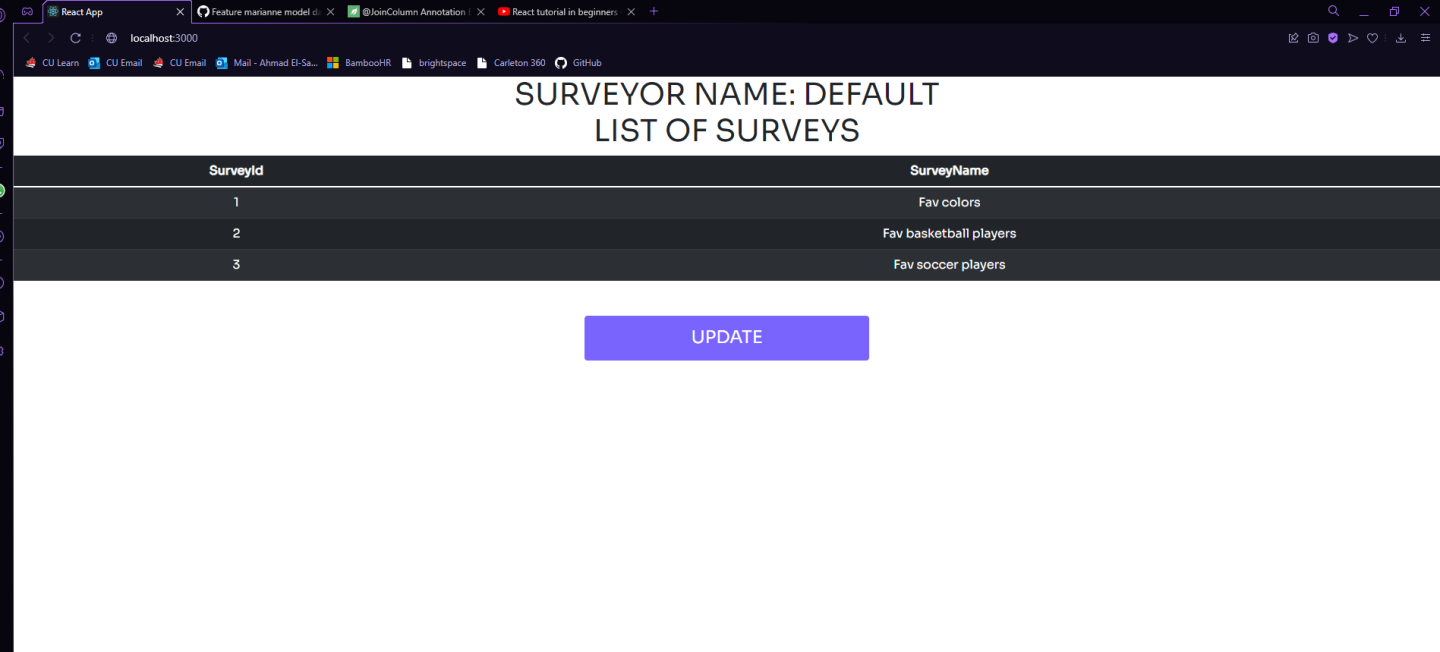
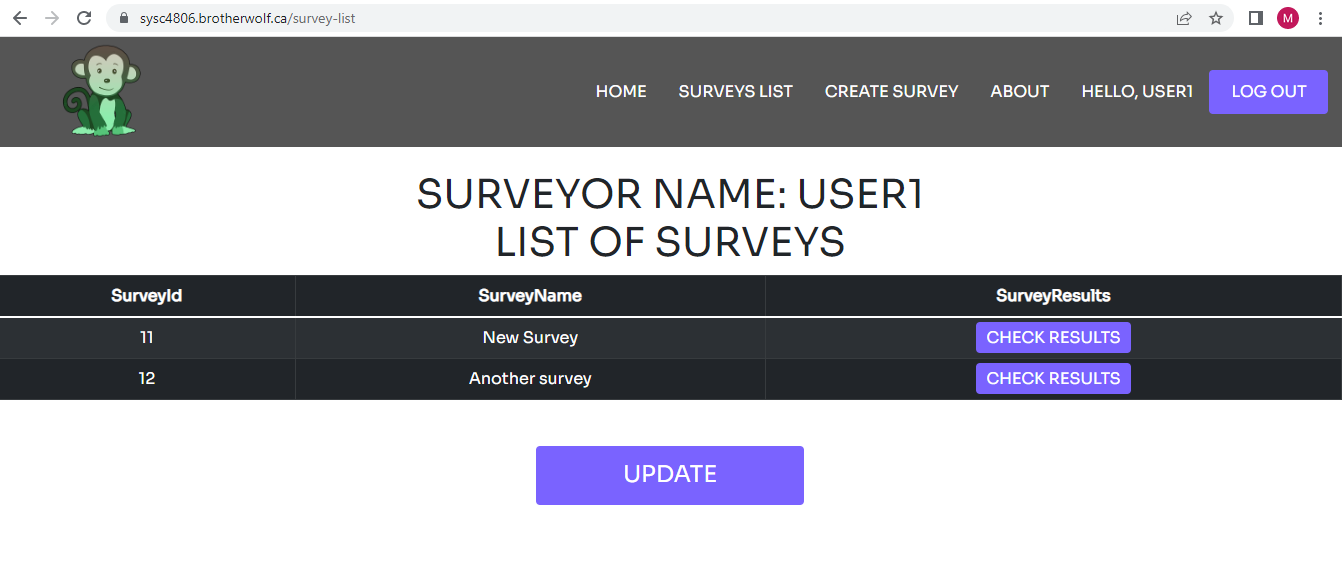
Updated screenshots:

diff --git a/README.md b/README.md
@@ -40,25 +40,25 @@ This is the use case that allows a surveyor to log in to the application and man
 
 ### Use Case 2: Display list of surveys
 
-Take the list of surveys that were created by a specific surveyor and to display it. The survey names and IDs are stored in the database (back-end) and we format this data into an HTML table before displaying it.
+Take the list of surveys that were created by a specific surveyor and to display it. The survey names and IDs are stored in the database (back-end) and we format this data into an HTML table before displaying it. We can click the "CHECK RESULTS" button to get to use case 5.
 
 ![ListOfSurveys](/docs/ListOfSurveys.png)
 
 ### Use Case 3: Create a survey
 
-In this use case, the user can create a new survey and save it to the database. The user needs to specify the name of the survey and the list of questions. Once the survey was successfully created, we provide the surveyor with a link to the survey. This link can be shared to respondents such that they can answer the survey and save their answers.
+In this use case, the user can create a new survey and save it to the database. The user needs to specify the name of the survey and the list of questions. Once the survey was successfully created, we provide the surveyor with the survey ID. The ID can be shared to respondents so they can answer the survey.
 
 ![CreateSurvey](/docs/CreateSurvey.png)
 
 ### Use Case 4: Answer a survey
 
-In this use case, we fetch the survey name from the URL and we use the name to fetch the survey questions from the database. The questions are displayed and the user can answer them. The answers are stored in the state of the application (through React) and when the user clicks "SUBMIT SURVEY", the answers are saved into the database.
+In this use case, a respondent can enter a survey ID in the input box on the upper left corner of the page and answer the survey with this ID. We fetch the survey ID from the URL and we use the ID to fetch the survey questions from the database. The questions are displayed and the user can answer them. The answers are stored in the state of the application (through React) and when the user clicks "SUBMIT SURVEY", the answers are saved into the database.
 
 ![AnswerSurvey](/docs/AnswerSurvey.png)
 
 ### Use Case 5: Display survey results
 
-In this use case, the surveyor can view the answers to a survey that they created. Answers to long answer questions are presented as a list. Multiple choice answers are presented with pie charts, and number answers are presented with histograms. Anyone can answer a survey, but only the surveyor who created the survey can view its answers. To view  
+In this use case, the surveyor can view the answers to a survey that they created. To see the answers, the user has to look at their list of survey (use case 2) and select the specific survey. Answers to long answer questions are presented as a list. Multiple choice answers are presented with pie charts, and number answers are presented with histograms. Anyone can answer a survey, but only the surveyor who created the survey can view its answers. To view  
 
 ![DisplayResults1](/docs/DisplayResults1.PNG)
 ![DisplayResults2](/docs/DisplayResults2.PNG)
